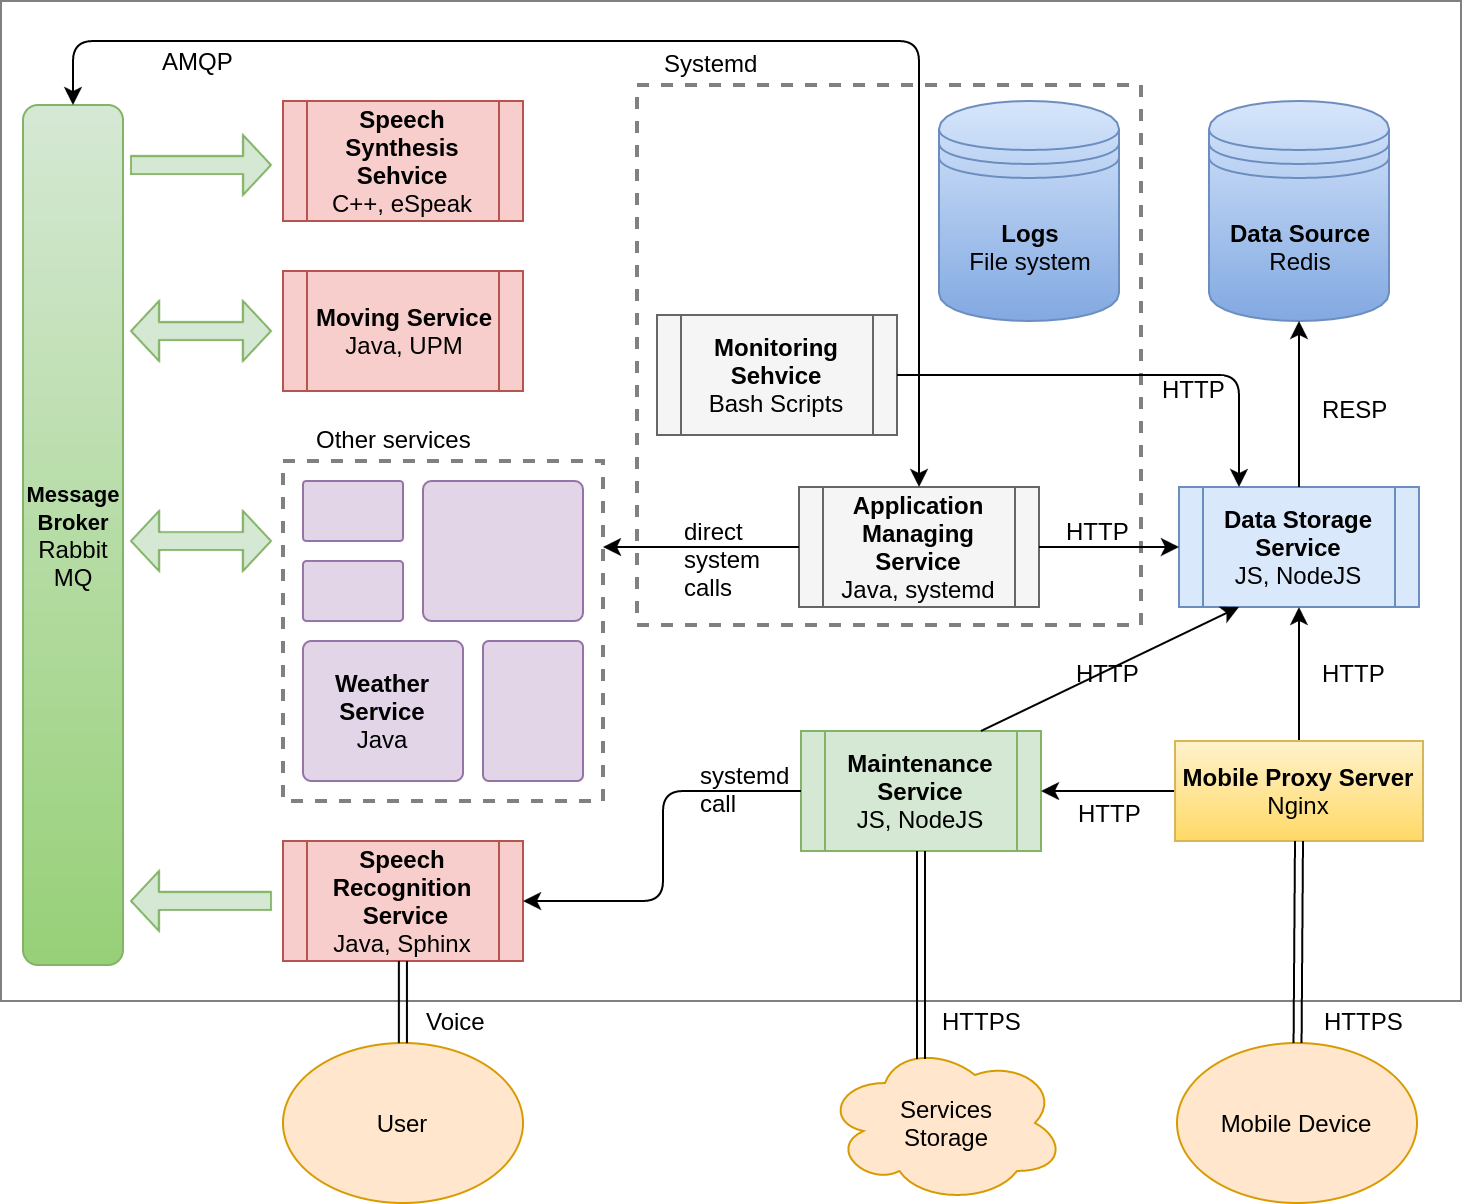
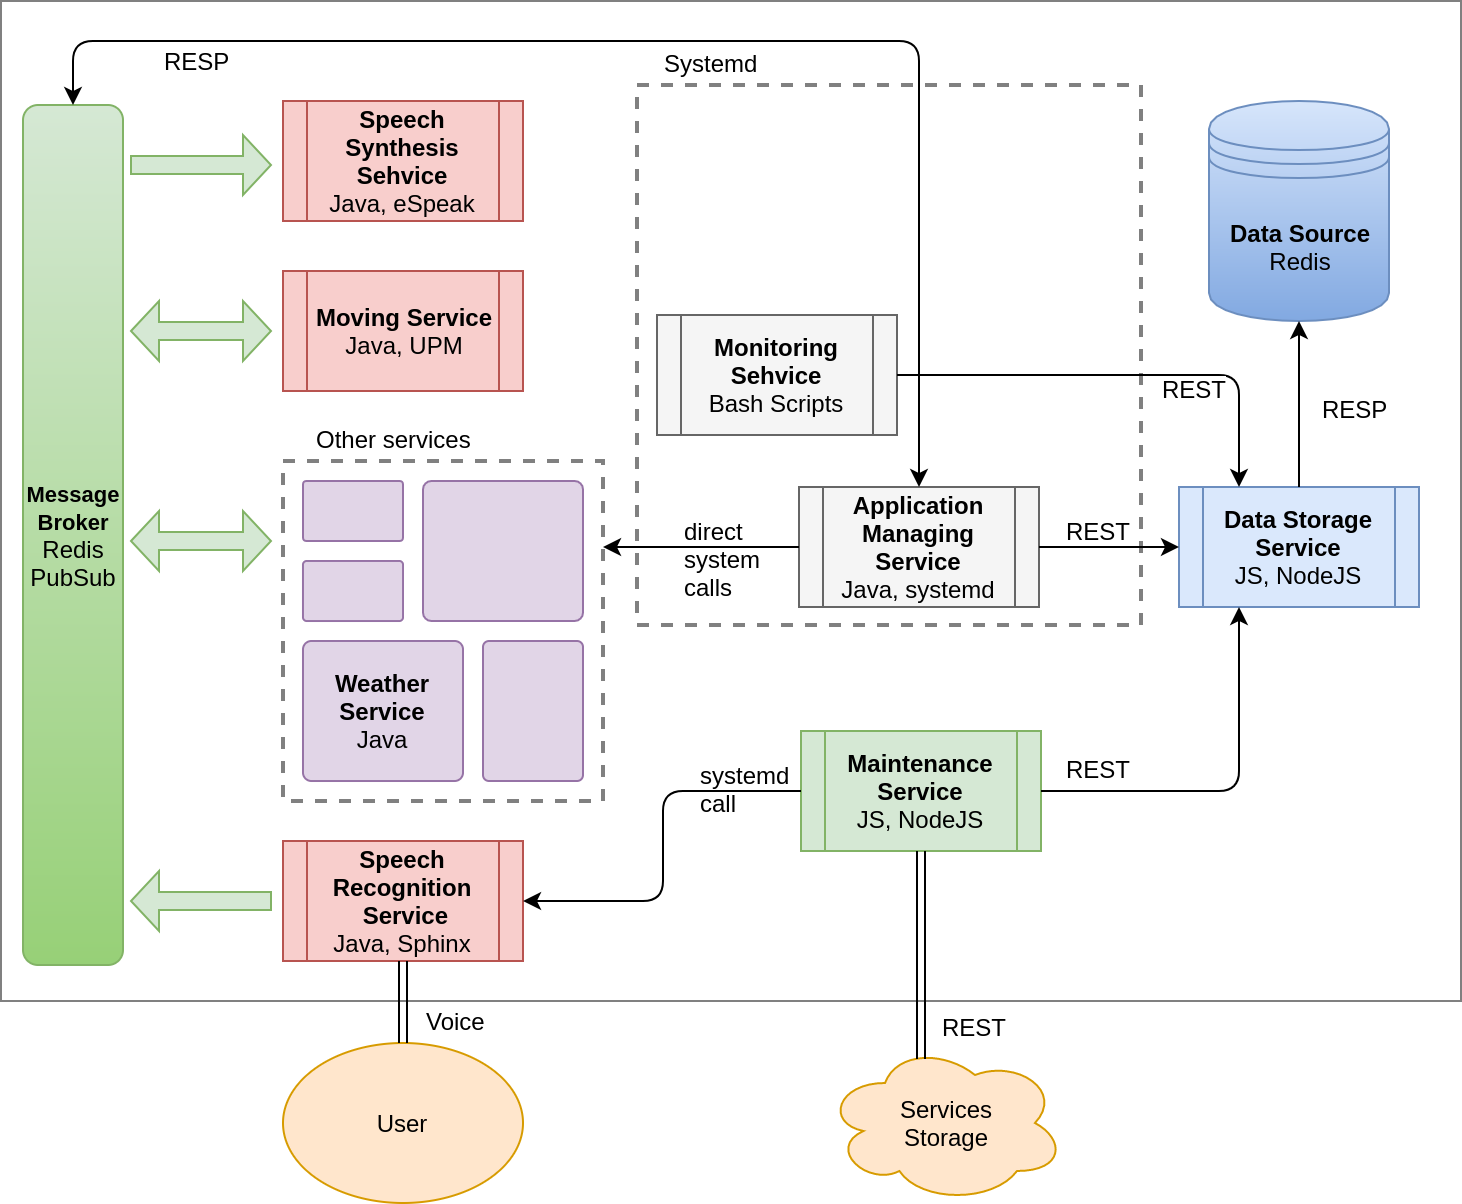
Updated readme and images

diff --git a/MaintenanceService/src/sphinx/DictionaryManager.js b/MaintenanceService/src/sphinx/DictionaryManager.js
@@ -11,7 +11,7 @@ class DictionaryManager {
         this._dictionaryPath = dictionaryPath;
         this._fullDictionaryPath = fullDictionaryPath;
 
-        this._excludedServiceNames = ["application-managing", "speech-synthesis"];
+        this._excludedServiceNames = ["application-managing", "speech-synthesis", "arduino-moving"];
 
         this.exec = bluebird.promisify(childProcess.exec);
     }

diff --git a/MaintenanceService/src/sphinx/GrammarManager.js b/MaintenanceService/src/sphinx/GrammarManager.js
@@ -10,7 +10,7 @@ const errors = require('../Errors');
 class GrammarManager {
     constructor(path) {
         this._grammarPath = path;
-        this._excludedAppNames = ["application-managing", "speech-synthesis"];
+        this._excludedAppNames = ["application-managing", "speech-synthesis", "arduino-moving"];
         this._writeFile = bluebird.promisify(fs.writeFile);
     }
 

diff --git a/README.md b/README.md
@@ -1,13 +1,14 @@
 ## Scalable Voice-Driven Robotic System on the Moving Platform (version 1.0)
 
 #### Components:
-* [x] Speech Recognition Service (version 1.1)
-* [x] Speech Synthesis Service (version 1.1)
-* [x] Application Managing (version 1.2)
-* [x] Data Storage Service (version 1.2)
-* [x] Maintenance Service (version 1.0)
+* [x] Speech Recognition Service (version 2.0)
+* [x] Speech Synthesis Service (version 2.0)
+* [x] Application Managing Service (version 2.0)
+* [x] Data Storage Service (version 2.0)
+* [x] Maintenance Service (version 2.0)
 * [x] Monitoring Scripts (version 1.0)
-* [x] Weather Service (version 1.0)
+* [x] Weather Service (version 2.0)
+* [x] Moving Service (version 1.0)
 * [ ] Mobile Service
 
 ![Services](https://github.com/ValeriiaFilimonova/Leodroid/blob/master/Full%20diagram.png)
